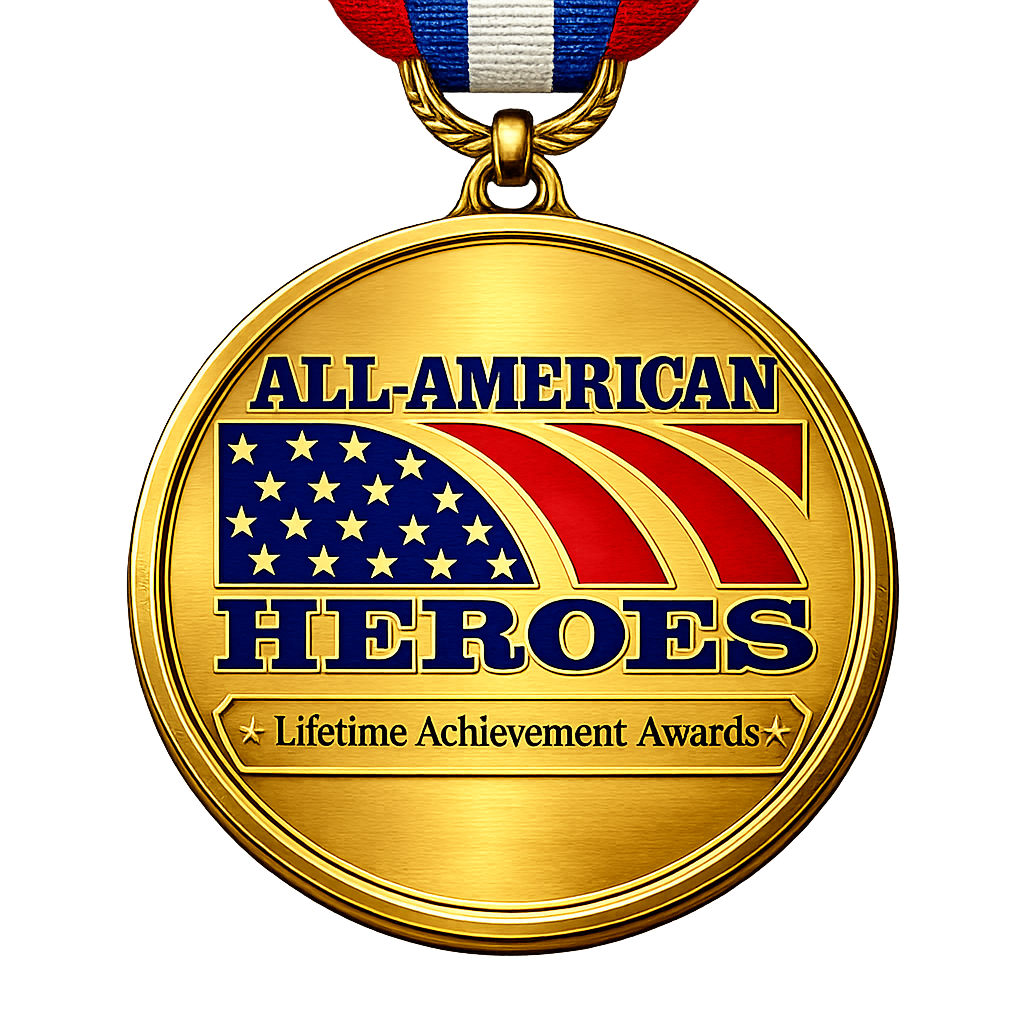
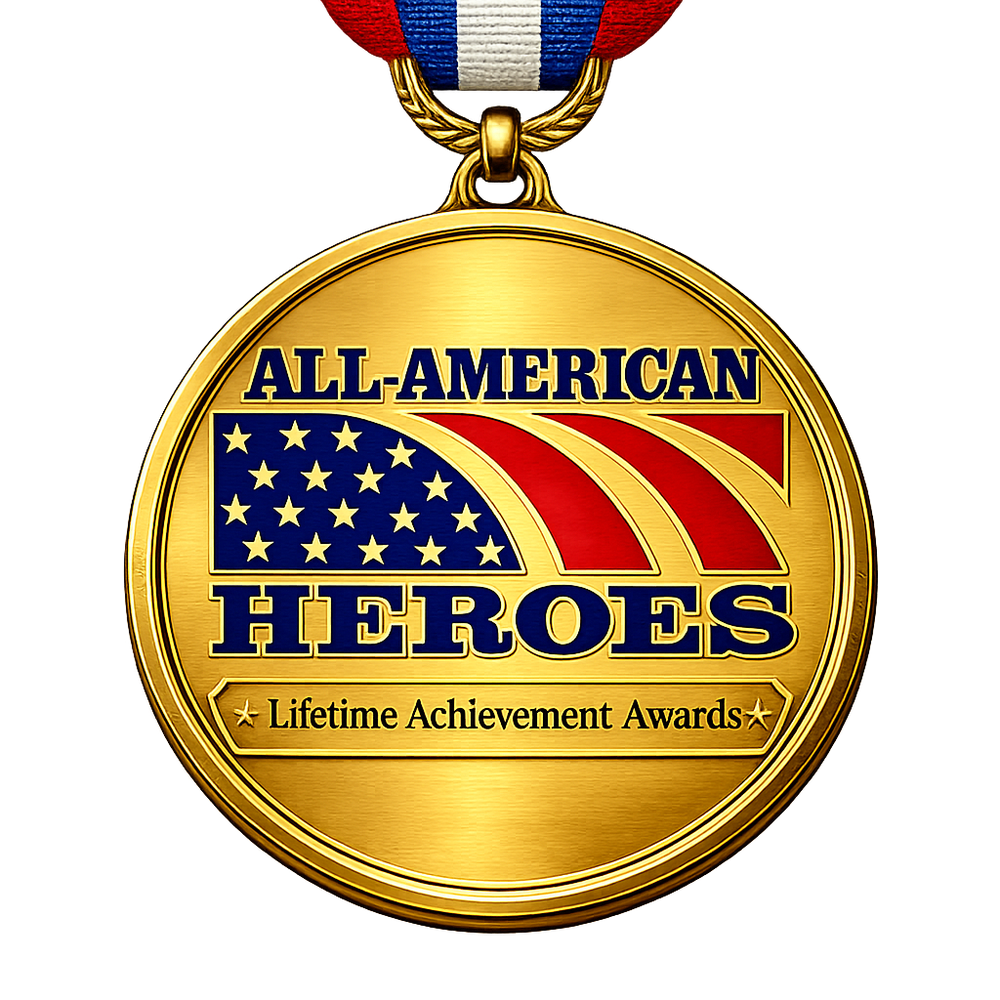
Page-speed: compress 5 fat homepage images (-7.8 MB)
One-time Pillow pass on the heaviest assets:
- hero-countdown250-toast.png 2.50 MB -> .jpg 329 KB  (-87%)
- hilton-twilight.png         2.59 MB -> .jpg 279 KB  (-89%)
- inaugural-ceremony-flag.jpg 2.19 MB -> 258 KB       (-88%)
- all-amer-heroes-medal.png   1.82 MB -> 1.06 MB      (-42%, alpha preserved)
- countdown250-seal-circle    1.53 MB -> 647 KB       (-58%, alpha preserved)

Two PNG photos converted to JPG (no transparency needed); the two
PNG-with-transparency assets were resized to display-size + Pillow
optimize. All in-tree references updated across 13 .astro files.
The two superseded .png files removed. Homepage total weight drops
from ~13.4 MB to ~5.4 MB with no visual change intended.

diff --git a/scripts/compress_homepage_fat.py b/scripts/compress_homepage_fat.py
@@ -1,0 +1,65 @@
+"""One-time compression pass on the 5 fat homepage images.
+
+Strategy:
+  - PNG photos with NO transparency  -> convert to .jpg @ 1600px q82
+  - Existing JPG                     -> recompress in place @ 1600px q82
+  - PNG with transparency            -> keep PNG, resize + optimize=True
+
+Run from repo root:  python scripts/compress_homepage_fat.py
+"""
+from pathlib import Path
+from PIL import Image, ImageOps
+
+ROOT = Path(r"C:/Users/USER/countdown250/public/images")
+QUALITY = 82
+
+# (input_path, output_path, max_width, mode)
+# mode: 'jpg' = convert/save jpg, 'png' = save optimized png (preserve transparency)
+JOBS = [
+    (ROOT / "event/hero-countdown250-toast.png", ROOT / "event/hero-countdown250-toast.jpg", 1600, "jpg"),
+    (ROOT / "event/hilton-twilight.png",         ROOT / "event/hilton-twilight.jpg",         1600, "jpg"),
+    (ROOT / "event/inaugural-ceremony-flag.jpg", ROOT / "event/inaugural-ceremony-flag.jpg", 1600, "jpg"),
+    (ROOT / "misc/all-amer-heroes-medal.png",    ROOT / "misc/all-amer-heroes-medal.png",    1000, "png"),
+    (ROOT / "logos/countdown250-seal-circle-dark.png", ROOT / "logos/countdown250-seal-circle-dark.png", 800, "png"),
+]
+
+
+def fmt_size(p: Path) -> str:
+    return f"{p.stat().st_size/1024:8.1f} KB"
+
+
+for src, dst, max_w, mode in JOBS:
+    if not src.exists():
+        print(f"MISSING: {src}")
+        continue
+
+    before = src.stat().st_size / 1024
+    img = Image.open(src)
+    img = ImageOps.exif_transpose(img)
+
+    if mode == "jpg":
+        # Flatten any alpha onto white before JPEG save
+        if img.mode in ("RGBA", "LA", "P"):
+            background = Image.new("RGB", img.size, (255, 255, 255))
+            if img.mode == "P":
+                img = img.convert("RGBA")
+            background.paste(img, mask=img.split()[-1] if img.mode == "RGBA" else None)
+            img = background
+        elif img.mode != "RGB":
+            img = img.convert("RGB")
+    else:  # png — keep alpha
+        if img.mode not in ("RGBA", "LA", "P"):
+            img = img.convert("RGBA")
+
+    if img.width > max_w:
+        ratio = max_w / img.width
+        img = img.resize((max_w, int(round(img.height * ratio))), Image.LANCZOS)
+
+    if mode == "jpg":
+        img.save(dst, format="JPEG", quality=QUALITY, optimize=True, progressive=True)
+    else:
+        img.save(dst, format="PNG", optimize=True)
+
+    after = dst.stat().st_size / 1024
+    saved_pct = (1 - after / before) * 100 if before > 0 else 0
+    print(f"{src.name:42s} -> {dst.name:38s}  {before:7.1f} KB -> {after:7.1f} KB   ({saved_pct:5.1f}% smaller)")
